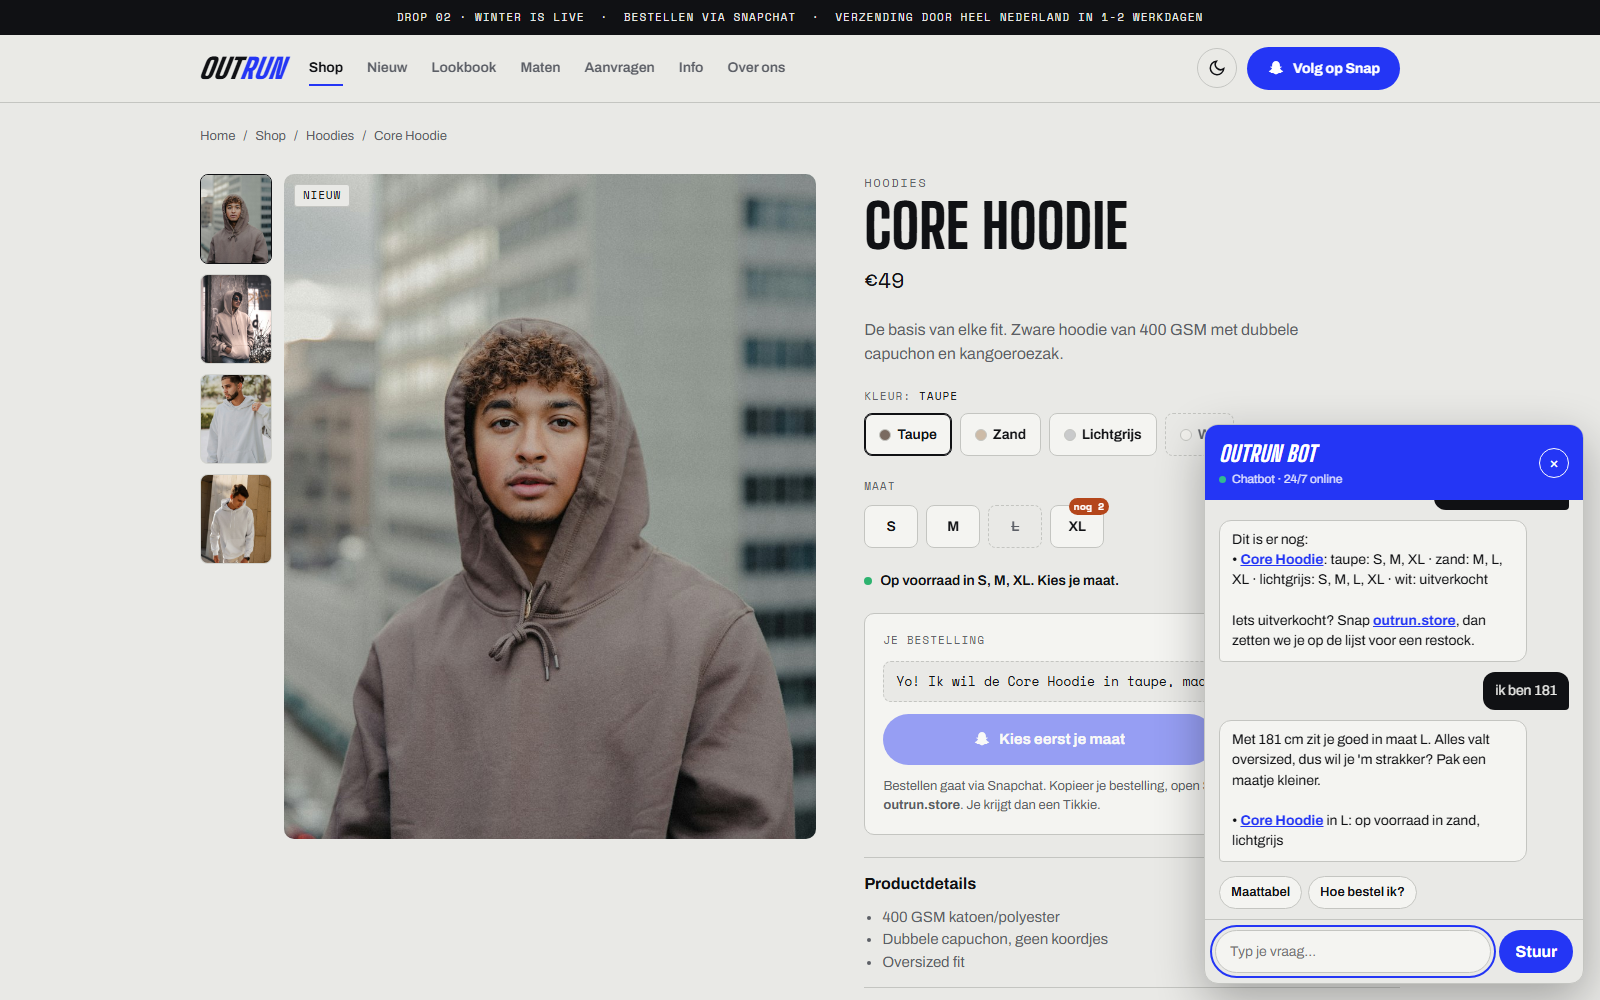
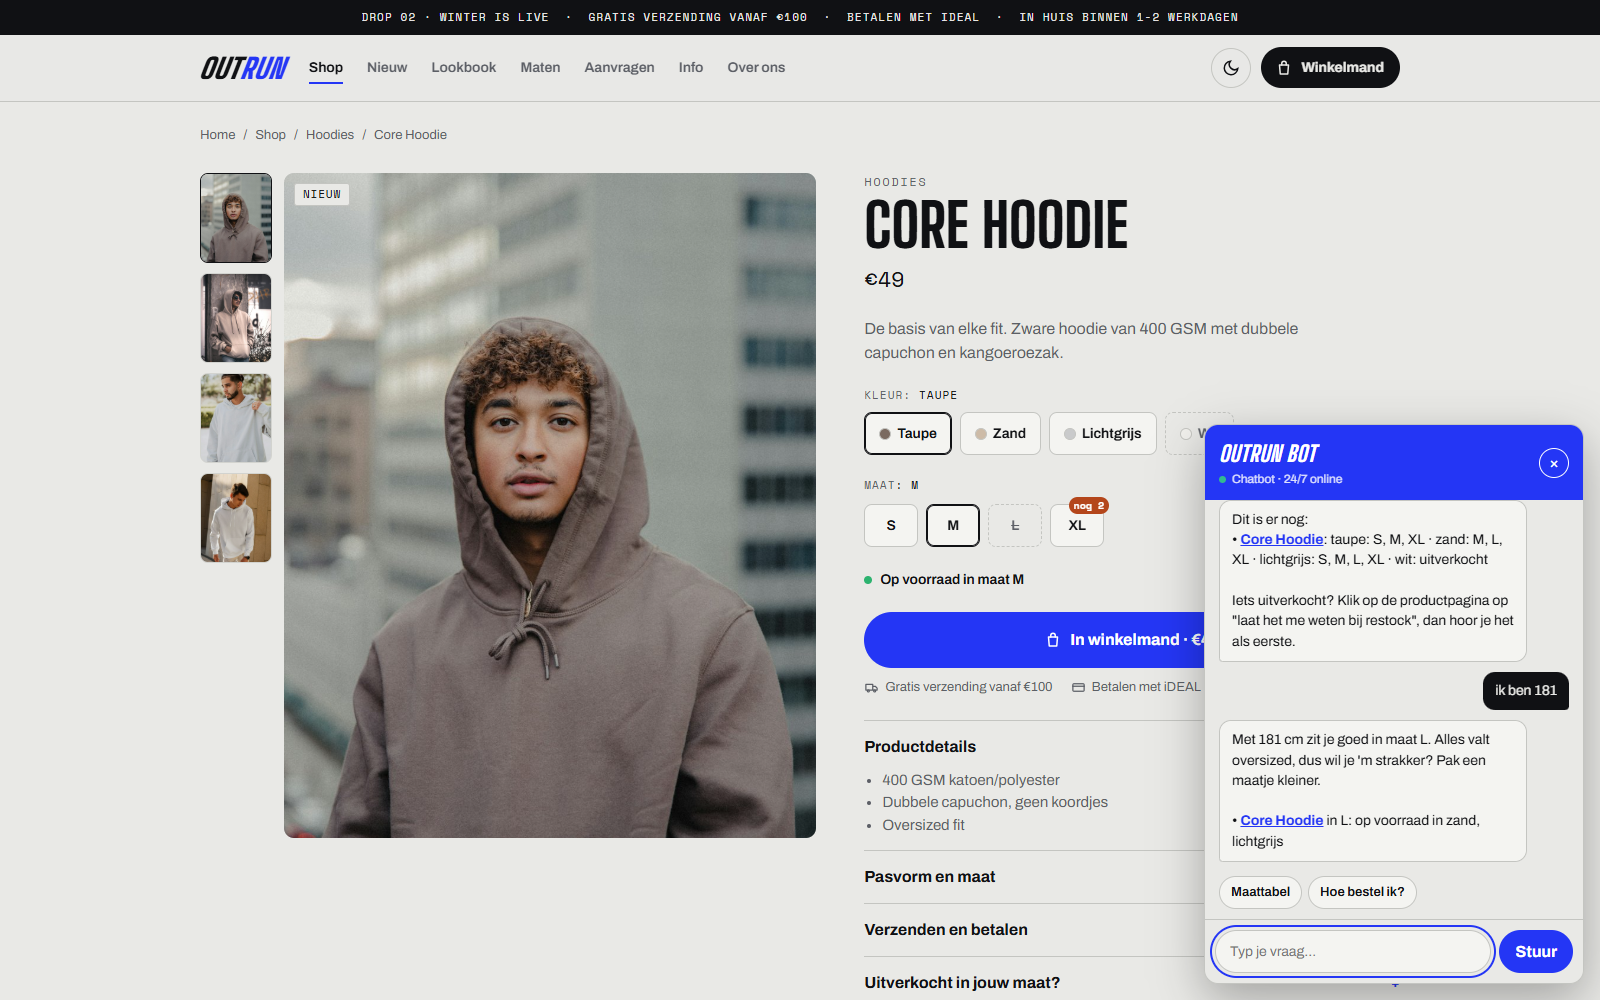
Nieuwe README en screenshots van het huidige ontwerp

diff --git a/README.md b/README.md
@@ -1,64 +1,95 @@
-# OUTRUN – Streetwear webshop (concept)
+# OUTRUN
 
-Conceptwebsite voor **OUTRUN**, een eigen streetwear-label dat kleding verkoopt. Klanten bestellen direct op de site: winkelmand, afrekenen en een bevestiging per mail. De site toont voorraad per kleur en maat, beantwoordt vragen met een chatbot en neemt aanvragen aan met foto's. Alles draait zonder backend, framework of build-stap.
+**Streetwear-webshop voor een eigen label: kleine drops, eerlijke prijzen, bestellen in een paar klikken.**
 
-> Dit is een conceptproject. De productfoto's zijn stockfoto's van [Unsplash](https://unsplash.com) en tonen niet de echte OUTRUN-producten.
+![Startanimatie](docs/intro.png)
+
+OUTRUN is een complete webshop zonder backend en zonder framework. Je kiest je maat, legt het in je winkelmand en rekent af. De bestelling komt binnen per mail en je betaalt met een iDEAL-betaalverzoek. Alles draait op statische HTML, CSS en JavaScript en is te hosten op GitHub Pages.
+
+> Conceptproject. De productfoto's zijn stockfoto's van [Unsplash](https://unsplash.com) en tonen niet de echte OUTRUN-producten.
 
 ![Homepage](docs/desktop.png)
 
+## Highlights
+
+- **Startanimatie**: het logo husselt zich uit willekeurige tekens, productfoto's stapelen zich erachter op en daarna zoom je door het woord de site in
+- **Bestellen via de site**: winkelmand in een uitschuiflade, afrekenen met verzenden of ophalen, bevestiging per mail
+- **Voorraad per kleur en maat**: uitverkochte maten zijn doorgestreept, en labels als "Uitverkocht", "Bijna op", "Nieuw", "Binnenkort" en sale-percentages worden automatisch berekend
+- **Eigen cursor**: een blob die uitrekt in de richting waarin je beweegt, om knoppen heen plakt en ze in kleur omkeert, en boven producten een "Bekijk →"-cirkel toont
+- **Bewegend ontwerp**: vloeiend scrollen, koppen die woord voor woord in beeld schuiven, foto-reveals met parallax, een marquee die reageert op je scrollsnelheid en panelen die over het scherm vegen tussen pagina's
+- **Chatbot** die maatadvies geeft op basis van je lengte en precies weet wat er per maat en kleur nog op voorraad is
+- **Licht en donker**, responsive van telefoon tot breed scherm
+
+## Screenshots
+
+| Shop met hover | Product en chatbot |
+| --- | --- |
+| ![Shop](docs/shop.png) | ![Productpagina met chatbot](docs/chat.png) |
+
+| Winkelmand | Afrekenen |
+| --- | --- |
+| ![Winkelmand](docs/cart.png) | ![Afrekenen](docs/checkout.png) |
+
+| Mobiel | Mobiel, donker |
+| --- | --- |
+| <img src="docs/mobile.png" width="320" alt="Homepage op mobiel"> | <img src="docs/mobile-dark.png" width="320" alt="Productpagina op mobiel in dark mode"> |
+
 ## Pagina's
 
-| Pagina | Wat staat erop |
+| Pagina | Inhoud |
 | --- | --- |
 | `index.html` | Hero, categorieën, nieuwe items, "Binnenkort"-banner, laatste stuks |
-| `shop.html` | Alle producten met filters op categorie, maat, "Nieuw" en "Sale", zoeken, sorteren en "alleen op voorraad". De filters staan in de URL, dus je kunt een gefilterde pagina delen. |
-| `product.html?id=…` | Fotogalerij per kleur, kleur- en maatkeuze, uitverkochte maten doorgestreept, voorraadmelding, "In winkelmand", gerelateerde items |
-| `afrekenen.html` | Gegevens, verzenden of ophalen, overzicht met verzendkosten, bestelling plaatsen en bedankpagina met bestelnummer |
+| `shop.html` | Alle producten. Filter op categorie, maat, "Nieuw", "Sale" en "alleen op voorraad", met zoeken en sorteren. De filters staan in de URL. |
+| `product.html?id=…` | Foto's per kleur, kleur- en maatkeuze, voorraadmelding, "In winkelmand", gerelateerde items |
+| `afrekenen.html` | Gegevens, verzenden of ophalen, overzicht met verzendkosten, bedankpagina met bestelnummer |
 | `lookbook.html` | Looks met links naar de producten die erin zitten |
-| `maten.html` | Maattabellen voor tops, broeken en sneakers, plus een maatcalculator op basis van lengte |
-| `aanvragen.html` | Aanvraagformulier met foto-upload |
-| `info.html` | FAQ over bestellen, betalen, verzenden, voorraad en ruilen |
-| `over.html` | Over het merk |
+| `maten.html` | Maattabellen en een maatcalculator |
+| `aanvragen.html` | Iets aanvragen dat niet in de shop staat, met foto-upload |
+| `info.html` | Veelgestelde vragen over bestellen, betalen, verzenden en ruilen |
+| `over.html` | Het verhaal achter het merk |
 
-## Features
+## Zo werkt een bestelling
 
-- **Bestellen via de site**: winkelmand in een uitschuiflade (bewaard in de browser, aantallen begrensd door de voorraad), balk tot gratis verzending en een afrekenpagina. De bestelling gaat via [FormSubmit](https://formsubmit.co) naar de mail van de winkel, en de klant krijgt automatisch een bevestiging. Betalen gaat met een iDEAL-betaalverzoek.
-- **Startanimatie** bij het eerste bezoek: het logo husselt zich uit willekeurige tekens, productfoto's stapelen zich erachter op en daarna zoom je door het woord de site in (over te slaan met een klik of toets)
-- **Animaties**: panelen die over het scherm vegen tussen pagina's, vloeiend scrollen met [Lenis](https://github.com/darkroomengineering/lenis), koppen die woord voor woord in beeld schuiven, foto-reveals en parallax, een marquee die meebeweegt met je scrollsnelheid en een header die wegschuift bij omlaag scrollen
-- **Eigen cursor** (alleen met muis): een blob die uitrekt in de richting waarin je beweegt, om knoppen heen plakt en ze in kleur omkeert, en boven producten een "Bekijk →"-cirkel toont. Knoppen trekken licht naar de cursor toe.
-- **Voorraad per kleur en maat**: labels voor "Uitverkocht", "Bijna op", "Nieuw", "Binnenkort" en sale-percentages worden automatisch berekend uit de productdata
-- **Chatbot** (regelgebaseerd, geen externe API) die intenties herkent (maat, voorraad, prijs, verzending, ophalen, betalen, bestellen, aanvragen). Hij geeft maatadvies op basis van lengte, weet wat er per maat en kleur nog op voorraad is en kent op een productpagina het product dat je bekijkt.
-- **Aanvraagformulier** met foto-upload (max. 3, voorbeelden en validatie van de bestandsgrootte), verstuurd via FormSubmit naar e-mail
-- **Responsive** van telefoon tot desktop, met **light en dark mode** (volgt het systeem, met een knop om te wisselen)
-- **Toegankelijk**: toetsenbordfocus, `aria`-labels, Escape sluit de chat en de winkelmand. Met `prefers-reduced-motion` staan alle animaties, het vloeiend scrollen en de eigen cursor uit.
-
-| Collectie | Productpagina met chatbot | Mobiel |
-| --- | --- | --- |
-| ![Shop](docs/shop.png) | ![Chatbot](docs/chat.png) | ![Mobiel](docs/mobile.png) |
+1. De klant legt items in de winkelmand. De winkelmand wordt in de browser bewaard, en je kunt nooit meer bestellen dan er op voorraad is.
+2. Bij het afrekenen vult de klant naam, e-mail en adres in, of kiest voor gratis ophalen.
+3. De bestelling gaat via [FormSubmit](https://formsubmit.co) naar het e-mailadres van de winkel. De klant krijgt automatisch een bevestiging met het bestelnummer.
+4. De winkel stuurt een iDEAL-betaalverzoek en verstuurt na betaling.
 
 ## Techniek
 
-- HTML, CSS en vanilla JavaScript, zonder build-stap. Enige externe script: Lenis via jsDelivr (zonder Lenis scrolt de site gewoon normaal).
-- `assets/data.js`: instellingen, producten en lookbook
-- `assets/site.js`: header, footer, winkelmand, productkaarten en voorraadlogica, gedeeld door alle pagina's
-- `assets/motion.js`: startanimatie, pagina-overgangen, vloeiend scrollen, scroll-animaties en cursor
-- `assets/chatbot.js`: de chatbot
-- `assets/style.css`: alle styling
-- Hosting getest op GitHub Pages
+- HTML, CSS en vanilla JavaScript, zonder build-stap
+- [Lenis](https://github.com/darkroomengineering/lenis) voor vloeiend scrollen, via jsDelivr (zonder Lenis scrolt de site gewoon normaal)
+- Lettertypes: Big Shoulders Display, Archivo en Space Mono via Google Fonts
+- Met `prefers-reduced-motion` staan alle animaties, het vloeiend scrollen en de eigen cursor uit
 
-## Lokaal bekijken
+```
+assets/
+  data.js      instellingen, producten en lookbook
+  site.js      header, footer, winkelmand, productkaarten, voorraadlogica
+  motion.js    startanimatie, pagina-overgangen, scroll-animaties, cursor
+  chatbot.js   de chatbot
+  style.css    alle styling
+img/           productfoto's
+docs/          screenshots voor deze README
+```
 
-Start een simpele webserver in de map, bijvoorbeeld `python -m http.server`, en open `http://localhost:8000`.
+## Lokaal draaien
+
+```
+python -m http.server
+```
+
+Open daarna `http://localhost:8000`.
 
 ## Aanpassen
 
 Alles staat in `assets/data.js`:
 
-- `CONFIG`: e-mailadres waar bestellingen en aanvragen binnenkomen, verzendkosten, gratis verzending vanaf, ophaalplaats, naam van de drop, Snapchat (voor contact), vanaf hoeveel stuks "Bijna op" verschijnt
-- `PRODUCTS`: per product een naam, categorie, prijs, optioneel `was` (oude prijs), `isNew` of `soon`, en per kleur een foto en de voorraad per maat. Zet een maat op `0` en die is uitverkocht.
-- `LOOKS`: de foto's in het lookbook en welke producten erbij horen
+- **`CONFIG`**: het e-mailadres waar bestellingen binnenkomen, verzendkosten, gratis verzending vanaf, ophaalplaats, naam van de drop en Snapchat (voor contact)
+- **`PRODUCTS`**: per product een naam, categorie en prijs, optioneel `was` (oude prijs), `isNew` of `soon`, en per kleur een foto en de voorraad per maat. Zet een maat op `0` en die is uitverkocht.
+- **`LOOKS`**: de foto's in het lookbook en de producten die erbij horen
 
-> **Let op:** FormSubmit vraagt bij de eerste bestelling om het e-mailadres te activeren via een link in je mail. De voorraad in `data.js` wordt niet automatisch bijgewerkt na een bestelling. Pas die zelf aan.
+Bij de eerste bestelling vraagt FormSubmit om het e-mailadres te activeren via een link in de mail. De voorraad in `data.js` gaat niet automatisch omlaag na een bestelling. Die pas je zelf aan.
 
 ---
 
